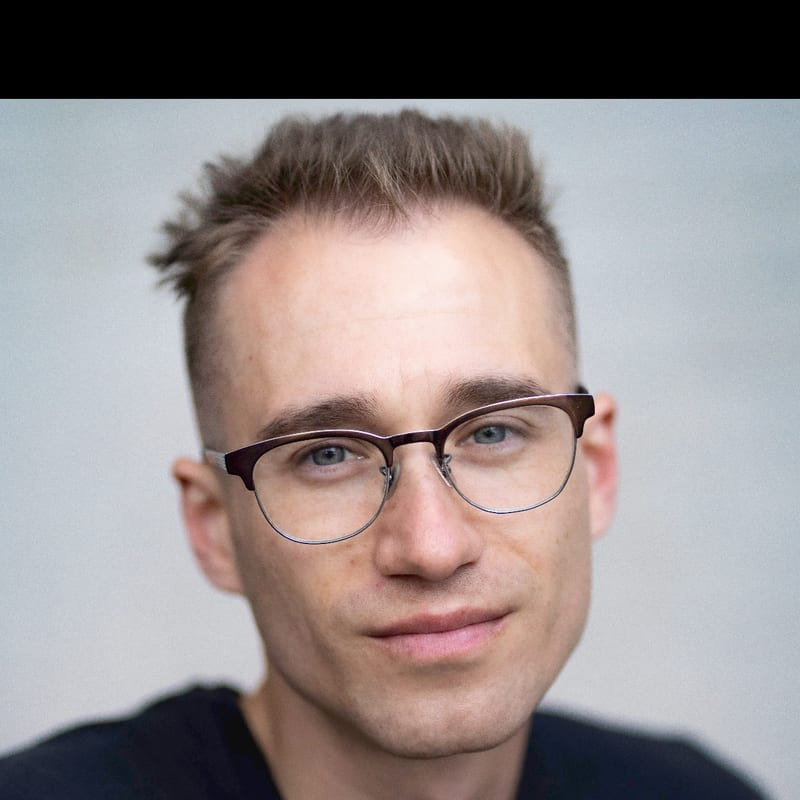
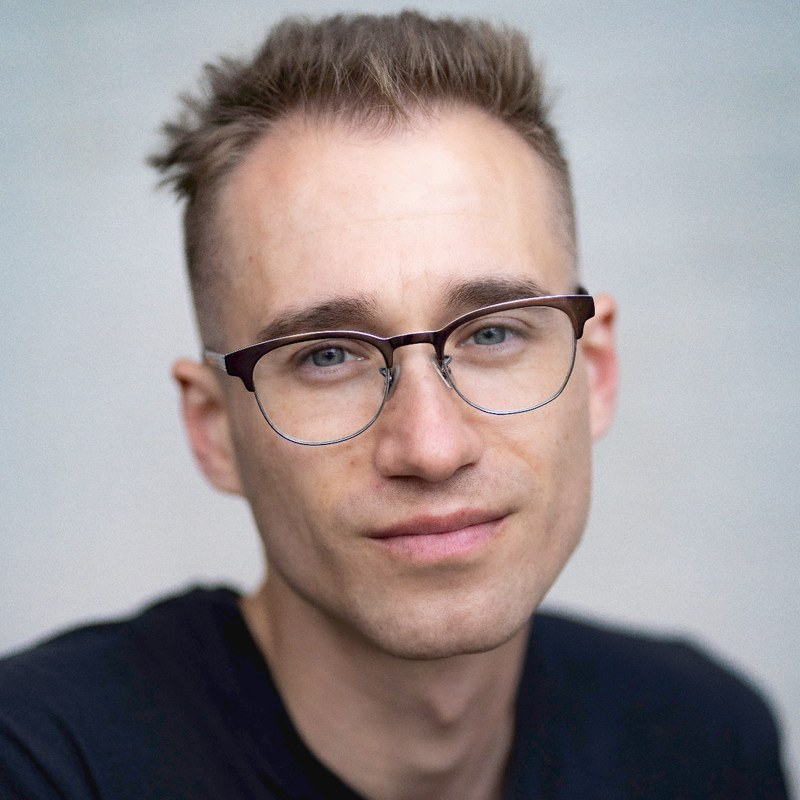
Refresh hero and branding visuals
- Add banner photo background with gradient fade to white, logo on the
  left, and a hover photo credit for Amanda Villalobos
- Darken the hero description so it reads over the photo
- Use the Sonoma Scholars logo emblem as favicon/apple icon and add an
  OpenGraph/Twitter share image (og.png)
- Nav CTA "Book a session" -> "Book"
- Add SAT Prep and ACT Prep inquiry subjects; note Natalie's B.A. in
  Communications from SFSU
- Re-crop Andy's headshot from the source to remove letterbox bars
- Guard Headshot image onError so it can't setState before mount

diff --git a/components/Hero.tsx b/components/Hero.tsx
@@ -1,41 +1,86 @@
+import Image from "next/image";
 import { site } from "@/lib/content";
 
 export default function Hero() {
   return (
-    <section
-      id="top"
-      className="relative overflow-hidden"
-    >
-      {/* soft decorative blobs */}
-      <div className="pointer-events-none absolute -top-24 -right-24 h-72 w-72 rounded-full bg-brand-soft blur-3xl opacity-60" />
-      <div className="pointer-events-none absolute top-32 -left-24 h-72 w-72 rounded-full bg-accent-soft blur-3xl opacity-60" />
+    <section id="top" className="relative overflow-hidden">
+      {/* background banner photo */}
+      <Image
+        src="/banner.jpg"
+        alt=""
+        fill
+        priority
+        sizes="100vw"
+        className="object-cover object-center"
+      />
 
-      <div className="relative mx-auto max-w-4xl px-6 py-12 sm:py-16 text-center">
-        <span className="inline-block rounded-full bg-brand-soft px-4 py-1 text-sm font-medium text-brand-dark">
-          1-on-1 &amp; small group tutoring
+      {/* gradient fade to white — keeps text legible and blends into the page below */}
+      <div className="absolute inset-0 bg-gradient-to-b from-white/48 via-white/32 to-white" />
+      <div className="absolute inset-0 bg-gradient-to-r from-white/56 to-transparent" />
+
+      {/* photo credit — revealed on hover */}
+      <div className="group absolute bottom-3 right-3 z-10">
+        <button
+          type="button"
+          aria-label="Photo credit"
+          className="flex h-7 w-7 items-center justify-center rounded-full bg-black/25 text-white backdrop-blur transition-colors hover:bg-black/50"
+        >
+          <svg
+            xmlns="http://www.w3.org/2000/svg"
+            viewBox="0 0 24 24"
+            fill="none"
+            stroke="currentColor"
+            strokeWidth="1.8"
+            className="h-4 w-4"
+            aria-hidden="true"
+          >
+            <path d="M4 8a2 2 0 0 1 2-2h1.5l1-1.5h5l1 1.5H18a2 2 0 0 1 2 2v9a2 2 0 0 1-2 2H6a2 2 0 0 1-2-2V8Z" />
+            <circle cx="12" cy="12.5" r="3" />
+          </svg>
+        </button>
+        <span className="pointer-events-none absolute bottom-full right-0 mb-2 whitespace-nowrap rounded-md bg-black/80 px-2.5 py-1 text-xs font-medium text-white opacity-0 shadow-sm transition-opacity duration-150 group-hover:opacity-100">
+          Photo by Amanda Villalobos
         </span>
+      </div>
 
-        <h1 className="mt-4 text-3xl sm:text-5xl font-bold leading-tight">
-          {site.tagline}
-        </h1>
+      <div className="relative mx-auto max-w-6xl px-6 py-16 sm:py-24">
+        <div className="flex flex-col items-center gap-10 text-center md:flex-row md:items-center md:gap-12 md:text-left">
+          {/* logo on the left */}
+          <Image
+            src="/logo.svg"
+            alt={site.name}
+            width={384}
+            height={216}
+            priority
+            className="w-[294px] shrink-0 sm:w-[331px] md:w-[368px]"
+          />
 
-        <p className="mx-auto mt-4 max-w-2xl text-muted">
-          {site.description}
-        </p>
+          <div className="max-w-2xl">
+            <span className="inline-block rounded-full bg-brand-soft px-4 py-1 text-sm font-medium text-brand-dark">
+              1-on-1 &amp; small group tutoring
+            </span>
 
-        <div className="mt-6 flex flex-wrap items-center justify-center gap-3">
-          <a
-            href="#contact"
-            className="rounded-full bg-brand px-6 py-2.5 font-semibold text-white hover:bg-brand-dark transition-colors"
-          >
-            Get started
-          </a>
-          <a
-            href="#pricing"
-            className="rounded-full border border-brand px-6 py-2.5 font-semibold text-brand hover:bg-brand-soft transition-colors"
-          >
-            View pricing
-          </a>
+            <h1 className="mt-4 text-3xl font-bold leading-tight sm:text-5xl">
+              {site.tagline}
+            </h1>
+
+            <p className="mt-4 font-medium text-ink">{site.description}</p>
+
+            <div className="mt-6 flex flex-wrap items-center justify-center gap-3 md:justify-start">
+              <a
+                href="#contact"
+                className="rounded-full bg-brand px-6 py-2.5 font-semibold text-white transition-colors hover:bg-brand-dark"
+              >
+                Get started
+              </a>
+              <a
+                href="#pricing"
+                className="rounded-full border border-brand px-6 py-2.5 font-semibold text-brand transition-colors hover:bg-brand-soft"
+              >
+                View pricing
+              </a>
+            </div>
+          </div>
         </div>
       </div>
     </section>

diff --git a/components/MeetAndConnect.tsx b/components/MeetAndConnect.tsx
@@ -1,6 +1,6 @@
 "use client";
 
-import { useActionState, useCallback, useEffect, useState } from "react";
+import { useActionState, useCallback, useEffect, useRef, useState } from "react";
 import { tutors, subjects, site, bookingEnabled, type Tutor } from "@/lib/content";
 import { sendInquiry } from "@/lib/actions";
 import { initialInquiryState } from "@/lib/inquiry";
@@ -27,6 +27,21 @@ function initials(name: string) {
 
 function Headshot({ tutor }: { tutor: Tutor }) {
   const [broken, setBroken] = useState(false);
+  const imgRef = useRef<HTMLImageElement>(null);
+  const mounted = useRef(false);
+
+  // An <img> can fire its error event during hydration, before this fiber has
+  // committed — calling setState then warns ("state update on a component that
+  // hasn't mounted yet"). Instead, detect an already-failed image here, after
+  // mount, and only let onError update state once we're mounted.
+  useEffect(() => {
+    mounted.current = true;
+    const img = imgRef.current;
+    if (img && img.complete && img.naturalWidth === 0) {
+      setBroken(true);
+    }
+  }, []);
+
   if (broken) {
     return (
       <div className="flex h-28 w-28 shrink-0 items-center justify-center rounded-2xl bg-brand-soft text-3xl font-bold text-brand-dark sm:h-32 sm:w-32">
@@ -37,10 +52,13 @@ function Headshot({ tutor }: { tutor: Tutor }) {
   // eslint-disable-next-line @next/next/no-img-element
   return (
     <img
+      ref={imgRef}
       src={tutor.photo}
       alt={tutor.name}
       className="h-28 w-28 shrink-0 rounded-2xl object-cover sm:h-32 sm:w-32"
-      onError={() => setBroken(true)}
+      onError={() => {
+        if (mounted.current) setBroken(true);
+      }}
     />
   );
 }

diff --git a/app/layout.tsx b/app/layout.tsx
@@ -15,8 +15,20 @@ const poppins = Poppins({
 });
 
 export const metadata: Metadata = {
+  metadataBase: new URL("https://sonomascholars.com"),
   title: `${site.name} — ${site.tagline}`,
   description: site.description,
+  openGraph: {
+    title: `${site.name} — ${site.tagline}`,
+    description: site.description,
+    images: [{ url: "/og.png", width: 1200, height: 630, alt: site.name }],
+  },
+  twitter: {
+    card: "summary_large_image",
+    title: `${site.name} — ${site.tagline}`,
+    description: site.description,
+    images: ["/og.png"],
+  },
 };
 
 export default function RootLayout({

diff --git a/lib/content.ts b/lib/content.ts
@@ -46,6 +46,8 @@ export const subjects = [
   "Creative Writing",
   "Essay & Application Help",
   "Public Speaking & Performance",
+  "SAT Prep",
+  "ACT Prep",
   "Study Skills",
 ];
 
@@ -69,7 +71,7 @@ export const tutors: Tutor[] = [
     name: "Natalie Miller",
     role: "Elementary & Middle School Math",
     photo: "/headshots/natalie.jpg",
-    bio: "A 20-year resident of West Sonoma County, Natalie has spent the past four years substitute teaching across the county and is pursuing her Foundational-Level Mathematics Teaching Credential. She specializes in helping elementary and middle school students strengthen their math skills, overcome challenges, and build a positive, confident attitude toward learning, living for those “aha!” moments when a concept finally clicks.",
+    bio: "A 20-year resident of West Sonoma County, Natalie has spent the past four years substitute teaching across the county and is pursuing her Foundational-Level Mathematics Teaching Credential. She holds a B.A. in Communications from San Francisco State University. She specializes in helping elementary and middle school students strengthen their math skills, overcome challenges, and build a positive, confident attitude toward learning, living for those “aha!” moments when a concept finally clicks.",
     subjects: ["Elementary Math", "Middle School Math", "Pre-Algebra"],
     bookingUrl: "", // TODO: paste Natalie's Google Appointment Scheduling link
   },

diff --git a/components/Nav.tsx b/components/Nav.tsx
@@ -33,7 +33,7 @@ export default function Nav() {
           href="#contact"
           className="rounded-full bg-brand px-5 py-2 text-sm font-semibold text-white hover:bg-brand-dark transition-colors"
         >
-          Book a session
+          Book
         </a>
       </nav>
     </header>